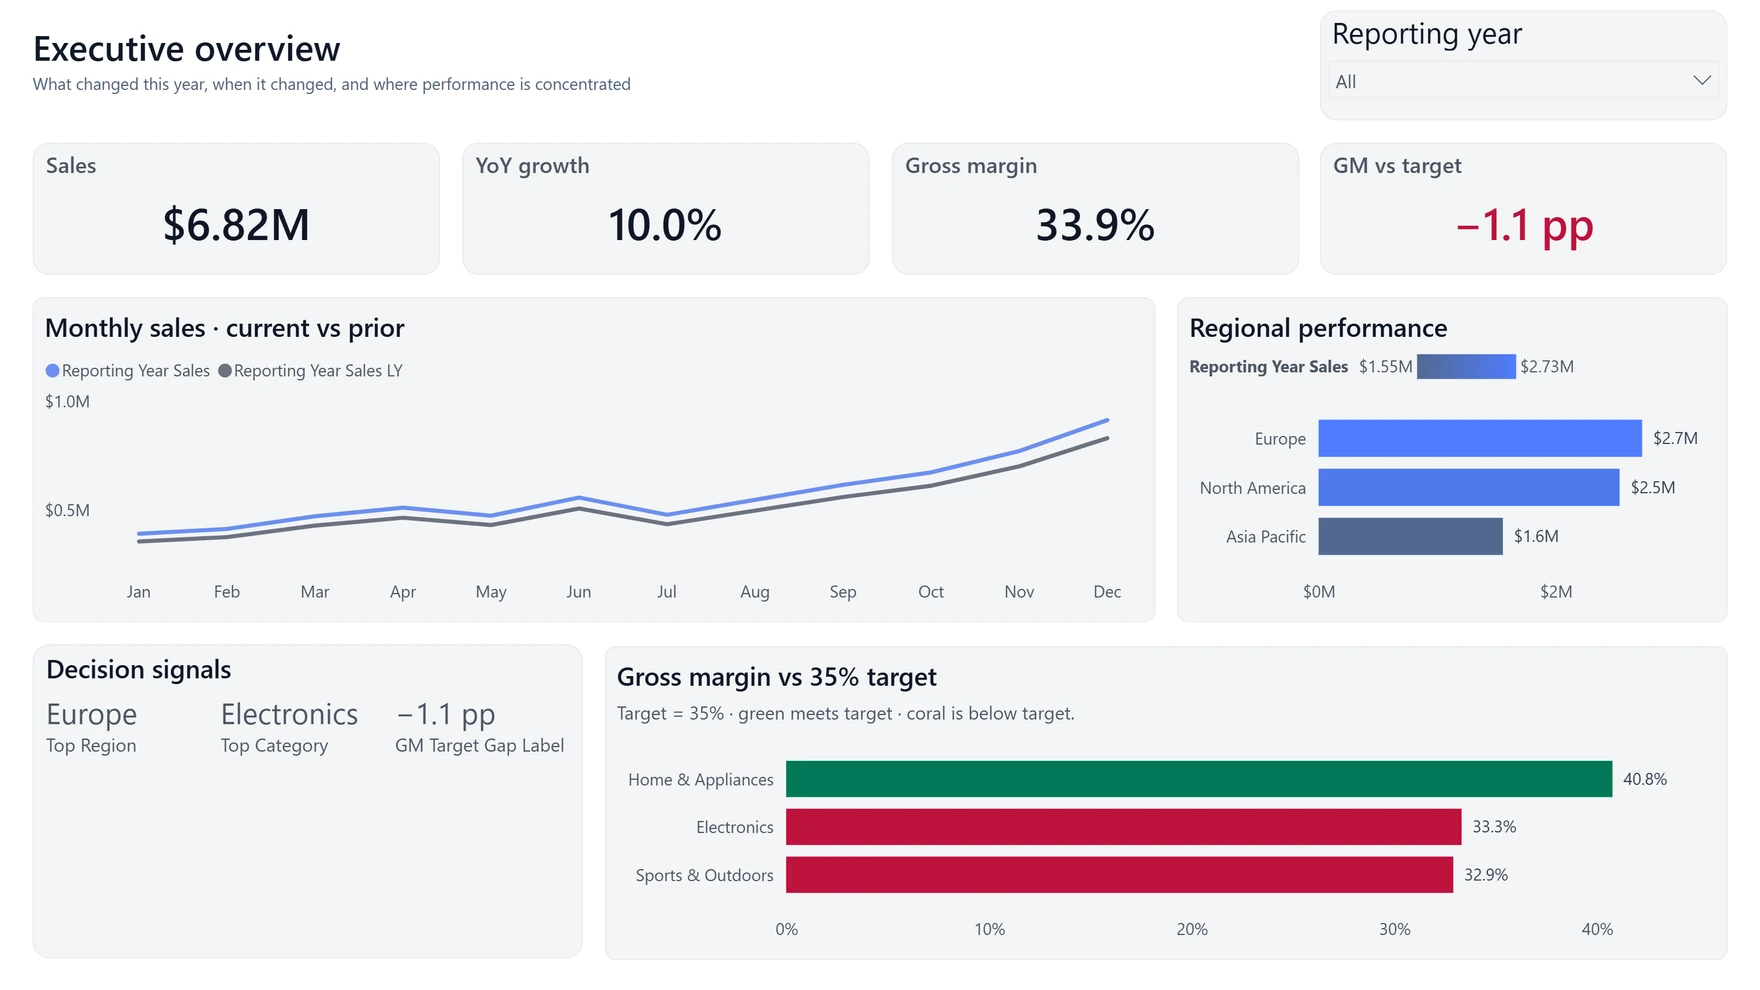
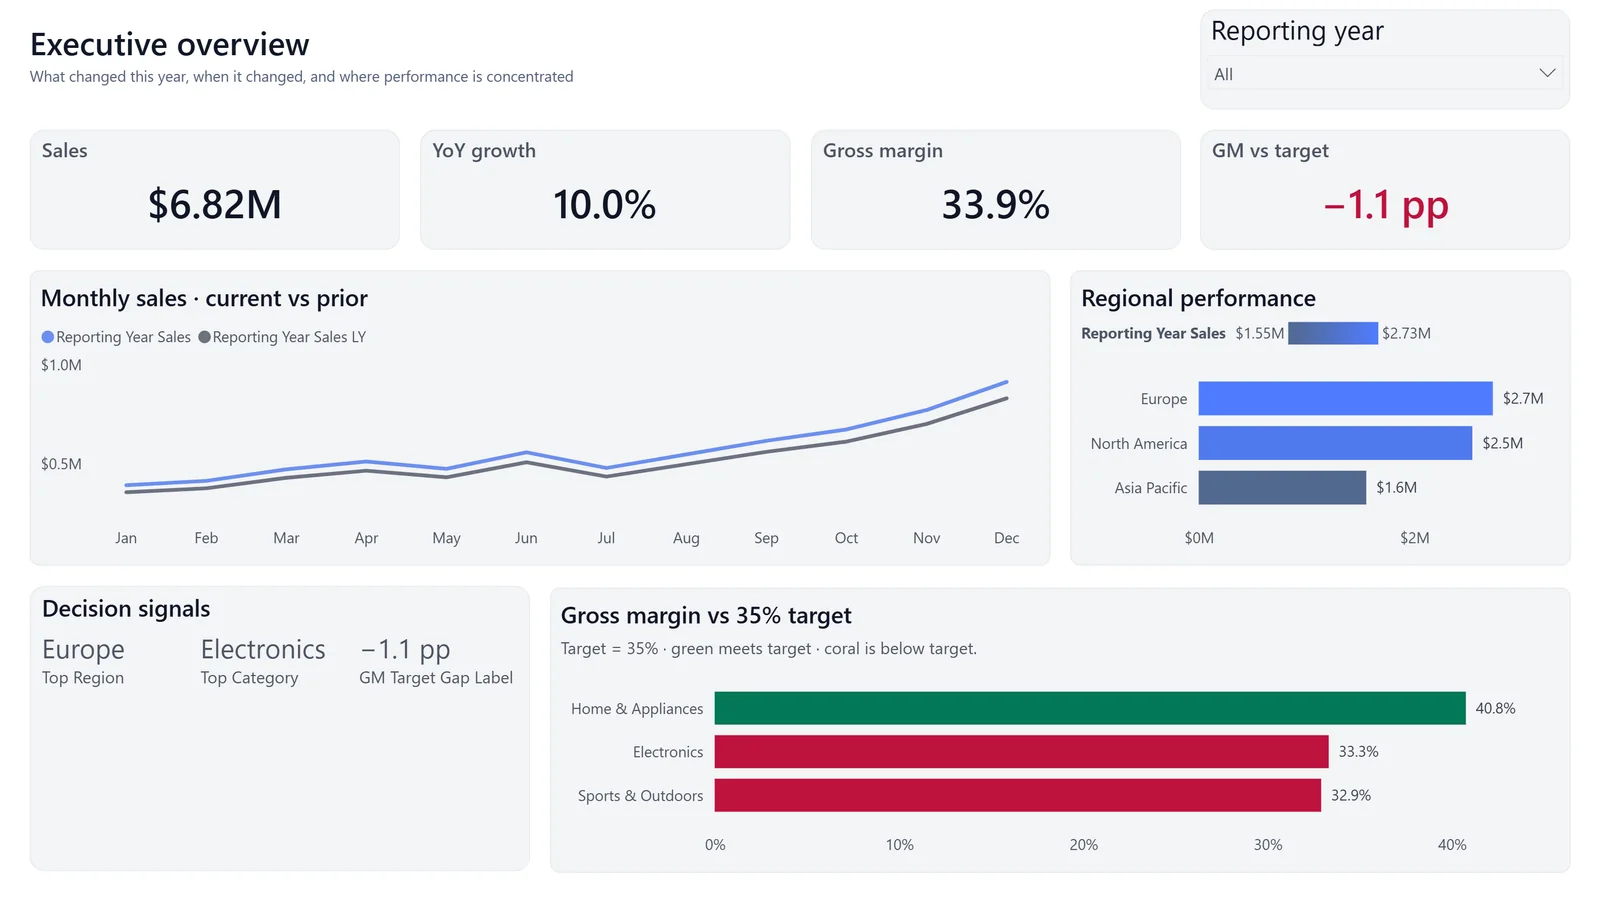
docs(showcase): recapture all five pages from corrected source PBIP

Changed region(s): [[0.6875, 0.3111, 0.7188, 0.3422]]

diff --git a/tests/test_public_showcase_example.py b/tests/test_public_showcase_example.py
@@ -15,7 +15,7 @@ EXAMPLE = REPO / "examples" / "contoso-retail"
 REPORT = EXAMPLE / "Contoso Retail.Report"
 MODEL = EXAMPLE / "Contoso Retail.SemanticModel"
 GALLERY = REPO / "docs" / "media" / "showcase"
[3 lines of base64/hex data omitted]
 PAGES = {
     "Executive_overview": "executive-overview.webp",

diff --git a/docs/media/showcase/ASSET_PROVENANCE.md b/docs/media/showcase/ASSET_PROVENANCE.md
@@ -1,25 +1,29 @@
 # Public showcase provenance
 
-**Reproducible checked-in source:** [Contoso Retail.pbip](../../../examples/contoso-retail/Contoso%20Retail.pbip) · [full five-page demo and refresh instructions](../../../examples/contoso-retail/README.md). All screenshots were rendered from the exact report-source SHA-256 below; the committed semantic model generates fictional data internally. The images are now continuously checked against that PBIP by `tests/test_public_showcase_example.py`.
+**Actual checked-in report:** [Contoso Retail.pbip](../../../examples/contoso-retail/Contoso%20Retail.pbip) · [reproduction and refresh instructions](../../../examples/contoso-retail/README.md).
 
[2 lines of base64/hex data omitted]
 
-Published assets have no user-identifying data; the images show fictional demo business aggregates, regions, categories and branded sample stores. They are examples of reports inspected with VQS, not screenshots of a VQS graphical interface and not independent design acceptance.
+The five original 3915 × 2394 Desktop captures were each measured and cropped to the report-only canvas at x=0, y=334, width=3072, height=1728, then resized to 1600 × 900 WebP preview. All private raw native Desktop PNGs, per-process identifiers, semantic model caches and machine paths remain outside Git. These illustrations are not release acceptance certificates or a VQS application interface.
 
-| Screenshot | SHA-256 of public preview | Size |
-| --- | --- | ---: |
[5 lines of base64/hex data omitted]
+| Native page | Preview | Public WebP SHA-256 | Size |
+| --- | --- | --- | ---: |
[5 lines of base64/hex data omitted]
 
-Individual source-canvas digests and page IDs (for custody audit):
+## Per-page render custody
 
[5 lines of base64/hex data omitted]
+The hashes below are SHA-256 of the **cropped report-only RGB pixel bytes** before WebP compression (not hashes of PNG container files). Original raw PNG hashes are retained in the private acceptance ledger.
 
-Full source-bound evidence transport and independent G2/G6 approval remain separate. See [release notes](../../RELEASE_NOTES_2026-10-21.md).
[5 lines of base64/hex data omitted]
+
+All content is self-generated fictional Contoso data. The visible data in the updated Stores & customers screenshot was independently checked on Desktop: Corporate, Consumer, Small Business and Total fit without scrollbars. Visual review remains separate from G4 interaction coverage and owner-controlled G6 release authorization.
+
+The associated source digest and public files are asserted by `tests/test_public_showcase_example.py`.

diff --git a/examples/contoso-retail/README.md b/examples/contoso-retail/README.md
@@ -37,7 +37,7 @@ The commands are read-only against the sample. For real Power BI Desktop capture
 | Markets & drivers | [Markets & drivers](../../docs/media/showcase/markets-drivers.webp) |
 | Deep-dive insights | [Deep-dive with Shape Map](../../docs/media/showcase/deep-dive-map.webp) |
 
[2 lines of base64/hex data omitted]
 
 The demo intentionally excludes `.pbi/cache.abf`, binary PBIX, full-resolution screenshot evidence, accounts, secrets, and anything tied to a private user filesystem. The installed Desktop rebuilds the cache on its first refresh. The screenshot previews are downscaled derivatives and are **not** a formal independent G2 visual-quality approval.
 
